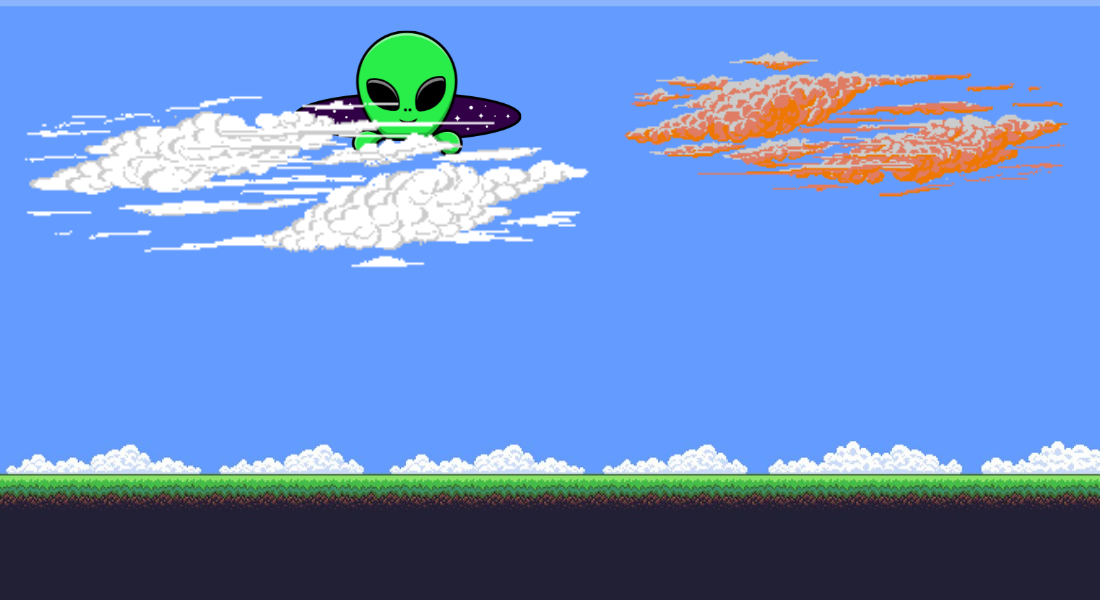
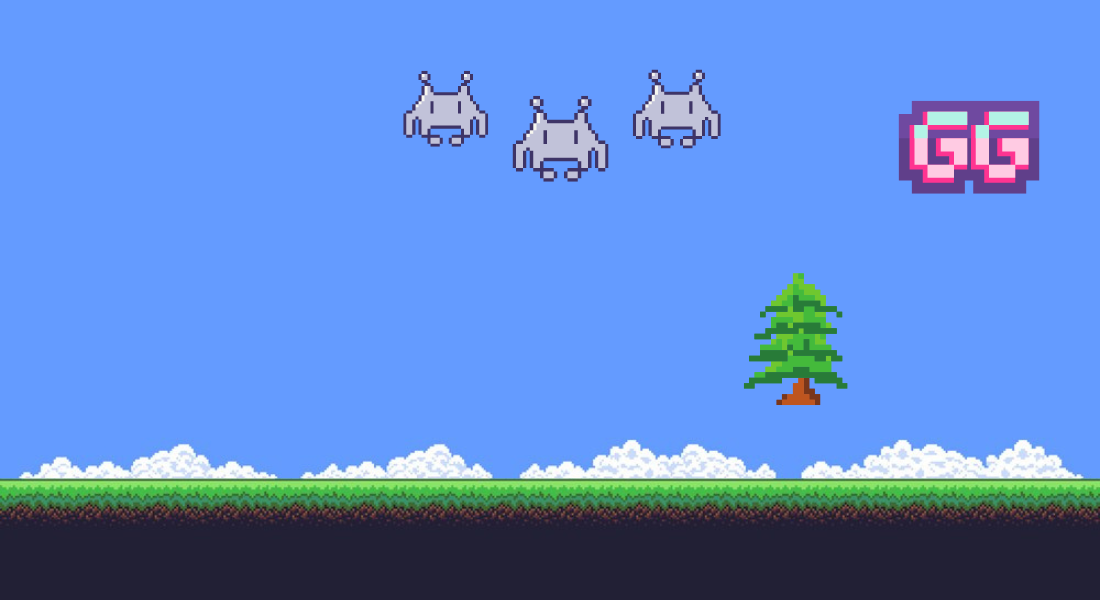
edicion final

Changed region(s): [[0.0, 0.0, 1.0, 0.45], [0.0, 0.72, 1.0, 0.87], [0.68, 0.45, 0.7727, 0.69]]

diff --git a/dino_runner/components/game.py b/dino_runner/components/game.py
@@ -2,7 +2,7 @@ from dino_runner.components.obstacles.obstacle_manager import ObstacleManager
 from dino_runner.components.power_ups.power_up_manager import PowerUpManager
 from dino_runner.components.text_utils import TextUtils
 import pygame, os
-from dino_runner.utils.constants import BG, ICON, SCREEN_HEIGHT, SCREEN_WIDTH, TITLE, FPS, COLORS, RUNNING, BIRD, BGMENU, FONDOP, HEART
+from dino_runner.utils.constants import BG, ICON, SCREEN_HEIGHT, SCREEN_WIDTH, TITLE, FPS, COLORS, RUNNING, BIRD, BGMENU, FONDOP, HEART, FONDOP2, FONDOP3, FONDOP4
 from dino_runner.components.dinosaur import Dinosaur
 
 
@@ -62,8 +62,12 @@ class Game:
         if self.points >= 0:
             self.screen.blit(FONDOP, (0, 0))
         if self.points >= 500:
-            self.screen.fill(COLORS["white"])
-        
+            self.screen.blit(FONDOP2,(0, 0))
+        if self.points >= 1000:
+            self.screen.blit(FONDOP3,(0, 0))
+        if self.points >= 1500:
+            self.screen.blit(FONDOP4,(0, 0))
+
         self.draw_background()
 
         self.player.draw(self.screen)

diff --git a/dino_runner/utils/constants.py b/dino_runner/utils/constants.py
@@ -70,6 +70,9 @@ HAMMER = pygame.image.load(os.path.join(IMG_DIR, 'Other/hammer.png'))
 BG = pygame.image.load(os.path.join(IMG_DIR, 'Other/tierra.png'))
 BGMENU = pygame.image.load(os.path.join(IMG_DIR, 'Other/Dino-Chrome.png'))
 FONDOP = pygame.image.load(os.path.join(IMG_DIR, 'Other/fondopasto.png'))
+FONDOP2 = pygame.image.load(os.path.join(IMG_DIR, 'Other/fondo2.png'))
+FONDOP3 = pygame.image.load(os.path.join(IMG_DIR, 'Other/fondo3.png'))
+FONDOP4 = pygame.image.load(os.path.join(IMG_DIR, 'Other/fondo4.png'))
 
 HEART = pygame.image.load(os.path.join(IMG_DIR, 'Other/SmallHeart.png'))
 

diff --git a/dino_runner/components/obstacles/Large_cactus.py b/dino_runner/components/obstacles/Large_cactus.py
@@ -5,4 +5,4 @@ class Cactus(Obstacle):
     def __init__(self, image_list):
         self.type = random.randint(0, 3)
         super().__init__(image_list, self.type)
-        self.rect.y = 300
+        self.rect.y = 50
